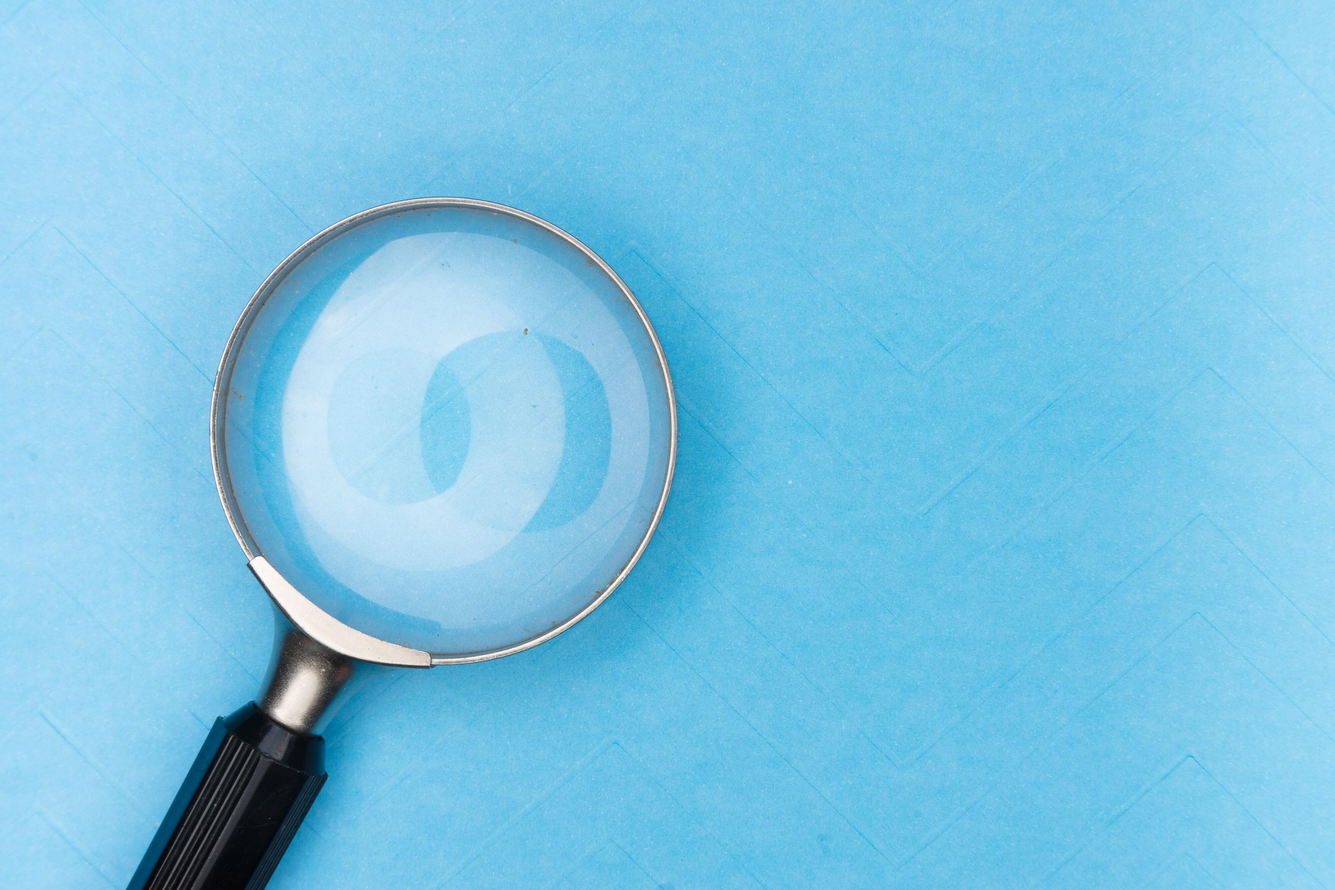
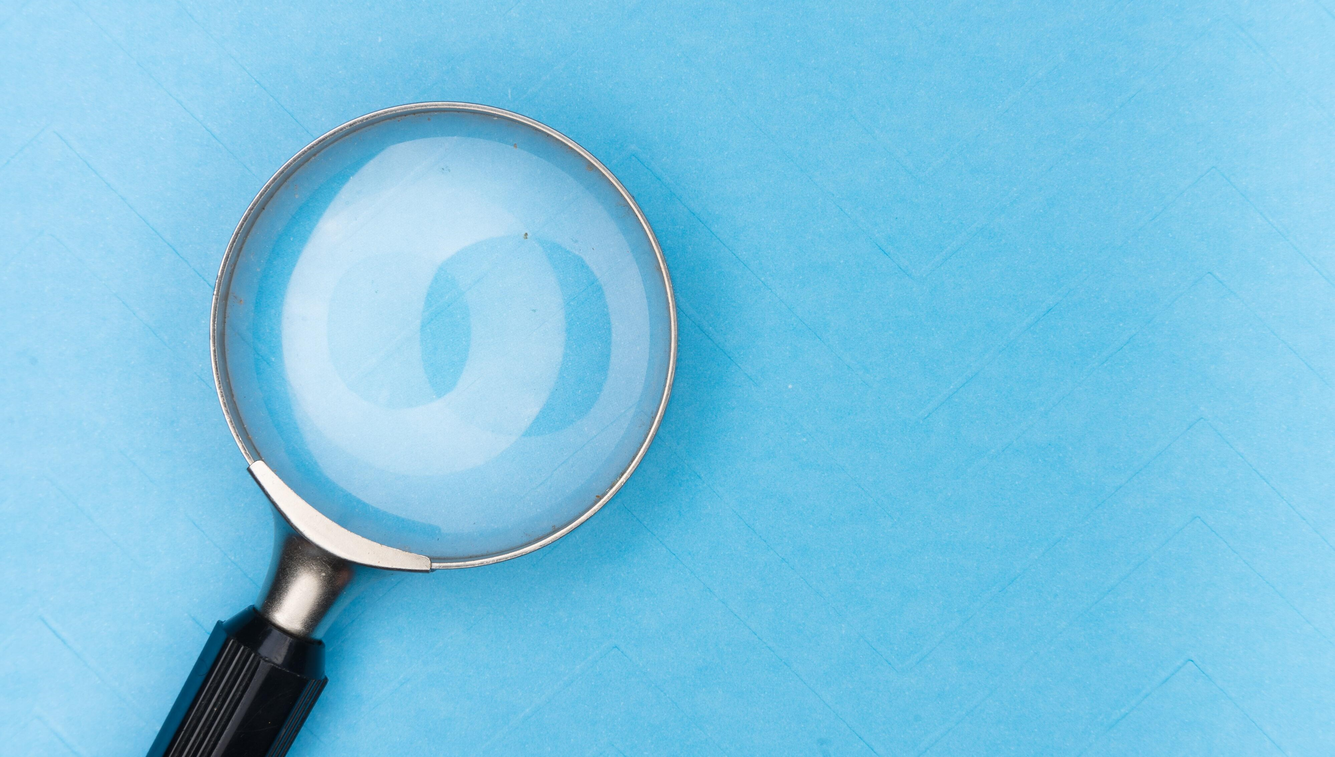
Methodencheck und Suchanfragen Fertig

diff --git a/src/components/Methodencheck.vue b/src/components/Methodencheck.vue
@@ -21,7 +21,7 @@
     <!-- START: WELCOME-PAGE -->
     <div class="methodencheck-page" v-if="page == 0">
       <!-- INTRO IMAGE -->
-      <img src="/apps/stand1105/dist/img/methodencheck_intro_image.f9acbe0d.png" class="methodencheck-introImage" alt="Methodencheck Intro Image">
+      <img src="/apps/stand1105/dist/img/methodencheck_intro_image.141a1948.png" class="methodencheck-introImage" alt="Methodencheck Intro Image">
 
       <!-- LANGUAGE SWITCH -->
       <div class="methodencheck-languageswitch">
@@ -106,7 +106,8 @@
             <!-- BUTTONS -->
             <div class="methodencheck-buttonContainer">
               <button class="methodencheck-button methodencheck-button-back button button-primary-bg" v-on:click="page--;scrollToTop('methodencheck-top', 60)"></button>
-              <button class="methodencheck-button methodencheck-button-forward button button-primary-bg" v-on:click="page++;scrollToTop('methodencheck-top', 60)" v-if="inputs[question['id'].toString()] != 0">{{ textcomponents.weiter }}</button>
+              <button class="methodencheck-button methodencheck-button-forward button button-primary-bg" v-on:click="page++;scrollToTop('methodencheck-top', 60)" v-if="inputs[question['id'].toString()] != 0 && page < Object.keys(questions).length">{{ textcomponents.weiter }}</button>
+              <button class="methodencheck-button methodencheck-button-forward button button-primary-bg" v-on:click="page++;scrollToTop('methodencheck-top', 60)" v-if="inputs[question['id'].toString()] != 0 && page == Object.keys(questions).length">{{ textcomponents.fertig }}</button>
             </div>
           </div>
 
@@ -435,19 +436,23 @@ label {
 .methodencheck-processbar {
   display: flex;
   align-items: center;
-  padding: 0 0 4rem 0;
+  padding: 0 1rem 4rem 0;
 }
 .methodencheck-step {
   width: 30px;
   height: 30px;
+  margin: 0 10px;
   border-radius: 100%;
-  background: #D0D0D0;
+  background: #C4C4C4;
   color: #8D8D8D;
   font-size: 0.9rem;
   display: flex;
   justify-content: center;
   align-items: center;
   transition: 0.3s linear;
+}
+.methodencheck-step:first-child {
+  margin: 0 5px 0 0;
 }
 .stepActive {
   background: #817E65;
@@ -475,8 +480,9 @@ label {
   width: 30px;
   height: 30px;
   transform: rotate(45deg);
-  background: #D0D0D0;
+  background: #C4C4C4;
   transition: 0.3s linear;
+  margin-left: 15px;
 }
 .endstepActive {
   background: #817E65;
@@ -510,7 +516,7 @@ label {
 .methodencheck-line {
   height: 2px;
   background: #D0D0D0;
-  width: calc((100% - 210px) / 6);
+  width: calc((100% - 330px) / 6);
   transition: 0.3s linear;
 }
 .lineActive {
@@ -793,7 +799,7 @@ input:checked + .slider:before {
     background: #C4C4C4;
 }
 .methodencheck-method {
-  border: 2px solid #817E65;
+  border: 2px solid #C4C4C4;
   border-radius: 5px;
   padding: 1rem;
   margin-bottom: 1rem;
@@ -926,22 +932,29 @@ input:checked + .slider:before {
   }
 }
 @media only screen and (max-width: 768px) {
+  .methodencheck-processbar {
+    padding: 0 0 4rem 0;
+  }
   .methodencheck-line {
     display: none;
   }
   .methodencheck-step, .methodencheck-endstep {
     width: 10%;
-    height: 4px;
+    height: 5px;
     border-radius: 4px;
-    border: 1.5px solid #000000;
-    background: #ffffff;
+    background: #C4C4C4;
     margin-right: 5%;
     color: #000000;
     font-size: 0;
+    margin-left: 0;
+  }
+  .methodencheck-step:first-child {
+    margin-right: 5%;
   }
   .methodencheck-endstep {
     transform: rotate(0deg);
     margin-right: 0;
+    margin-left: 0;
   }
   .stepActive {
     background: #000000;

diff --git a/src/components/Suchanfrage.vue b/src/components/Suchanfrage.vue
@@ -1,7 +1,7 @@
 <template>
 <div class="suchanfrage-container">
     <!-- START: INTRO IMAGE -->
-    <img src="/apps/stand1105/dist/img/suchanfragen_intro_image.916b5f6b.jpg" class="introImage" alt="Intro Image">
+    <img src="/apps/stand1105/dist/img/suchanfragen_intro_image.9aafb173.jpg" class="introImage" alt="Intro Image">
     <!-- END: INTRO IMAGE -->
 
     <!-- START: LANGUAGE SWITCH -->
